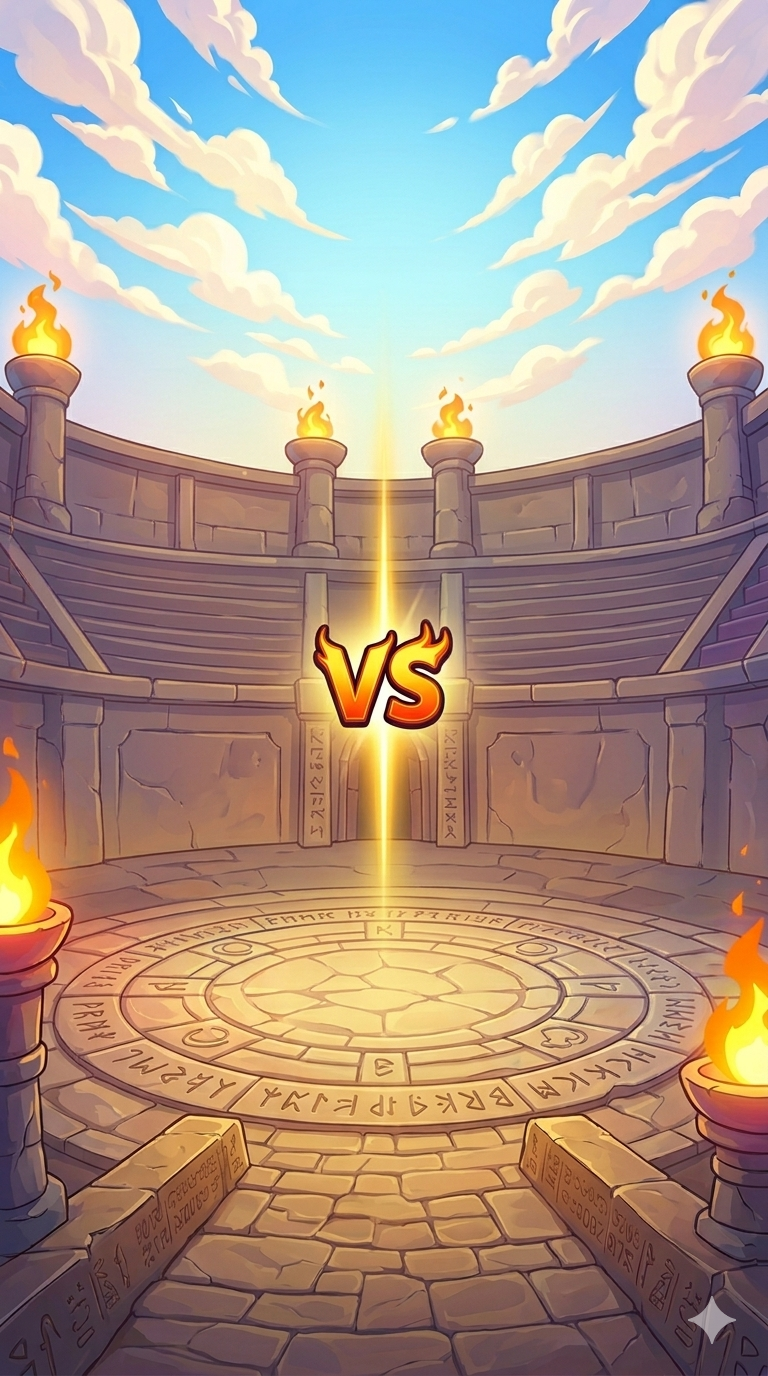
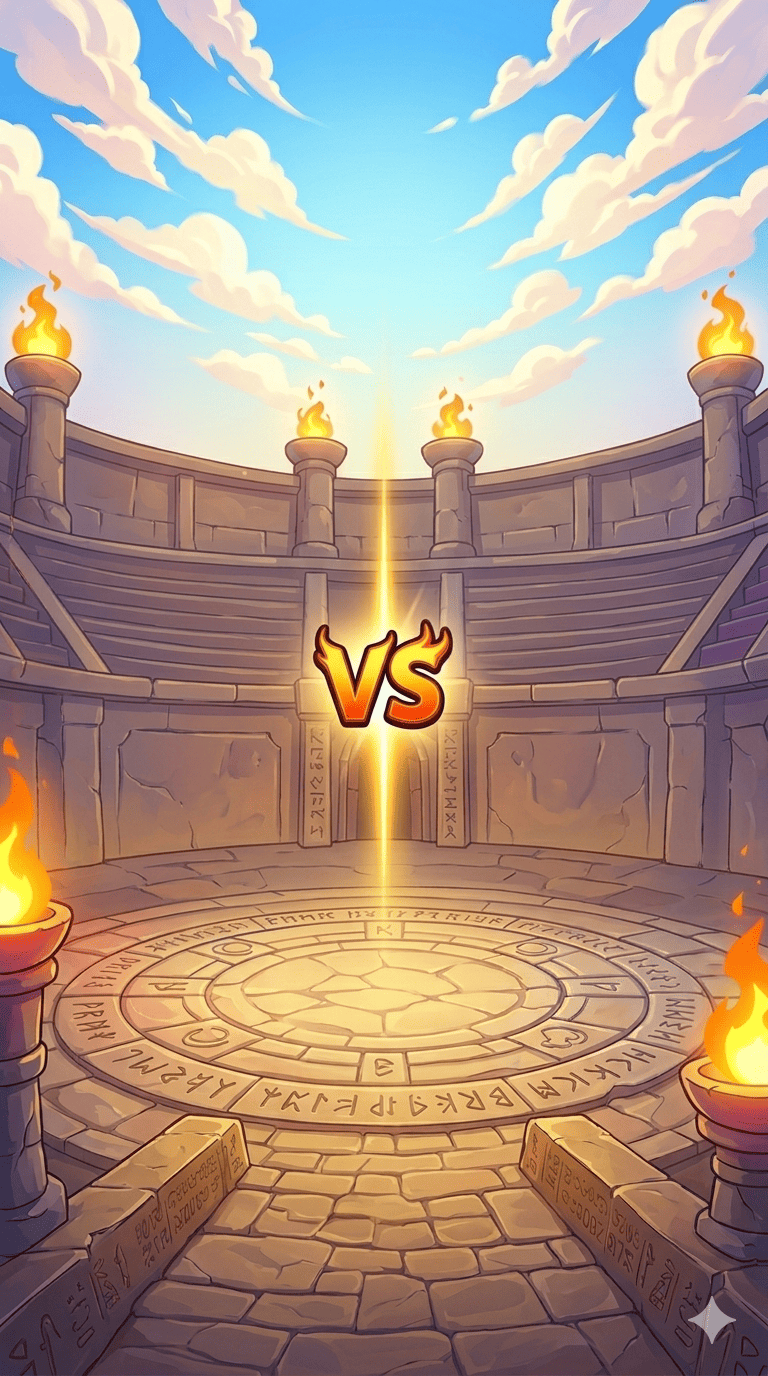
Improve animation and fast interacionts

diff --git a/lib/delivery/screens/battle/pre_battle_screens.dart b/lib/delivery/screens/battle/pre_battle_screens.dart
@@ -13,31 +13,38 @@ class PreBattleScreen extends ConsumerWidget {
 
   @override
   Widget build(BuildContext context, WidgetRef ref) {
-    debugPrint('[NAV] PreBattleScreen.build START ${DateTime.now().millisecondsSinceEpoch}');
+    final t0 = DateTime.now().millisecondsSinceEpoch;
+    debugPrint('[FRAME] build start: $t0');
+    WidgetsBinding.instance.addPostFrameCallback((_) {
+      debugPrint('[FRAME] postFrame (layout+paint done): ${DateTime.now().millisecondsSinceEpoch - t0}ms');
+    });
     final playerHero = ref.watch(selectedHeroForBattleProvider);
+    debugPrint('[FRAME] after watch: ${DateTime.now().millisecondsSinceEpoch - t0}ms');
 
     if (playerHero == null) {
       return const Scaffold(body: Center(child: CircularProgressIndicator()));
     }
 
     final botHero = HeroesData.tutorialBotFor(playerHero.faction.name);
+    debugPrint('[FRAME] after botHero: ${DateTime.now().millisecondsSinceEpoch - t0}ms');
     final fColor = factionColor(playerHero.faction);
     final bColor = factionColor(botHero.faction);
 
+    debugPrint('[FRAME] returning widget: ${DateTime.now().millisecondsSinceEpoch - t0}ms');
     return Scaffold(
-      // Quitamos el color de fondo sólido
-      body: Container(
-        // --- CONFIGURACIÓN DEL FONDO ---
-        decoration: const BoxDecoration(
-          image: DecorationImage(
-            image: AssetImage('assets/images/pre_battle_bg.png'),
+      backgroundColor: const Color(0xFF0D0D1A),
+      body: Stack(
+        fit: StackFit.expand,
+        children: [
+          // Imagen de fondo: carga async, no bloquea el primer frame
+          Image.asset(
+            'assets/images/pre_battle_bg.png',
             fit: BoxFit.cover,
+            frameBuilder: (_, child, frame, sync) =>
+                (sync || frame != null) ? child : const SizedBox.shrink(),
           ),
-        ),
-        child: Container(
-          // Añadimos un ligero velo oscuro (opcional) para que los textos blancos resalten más
-          color: Colors.black.withOpacity(0.2),
-          child: SafeArea(
+          ColoredBox(color: Colors.black.withValues(alpha: 0.2)),
+          SafeArea(
             child: Column(
               children: [
                 const SizedBox(height: 40),
@@ -51,9 +58,8 @@ class PreBattleScreen extends ConsumerWidget {
                   'Un rival te espera',
                   style: TextStyle(
                     color: Color(0xFFF0F0F0),
-                    fontSize: 28, // Un poco más grande para que sea épico
+                    fontSize: 28,
                     fontWeight: FontWeight.bold,
-                    shadows: [Shadow(blurRadius: 10, color: Colors.black)], // Sombra para legibilidad
                   ),
                 ),
 
@@ -92,12 +98,7 @@ class PreBattleScreen extends ConsumerWidget {
                               ),
                               child: Column(
                                 children: [
-                                  Text(
-                                    '⚔',
-                                    style: GoogleFonts.notoColorEmoji(
-                                      textStyle: const TextStyle(fontSize: 12),
-                                    ),
-                                  ),
+                                  const Icon(Icons.sports_kabaddi, size: 14, color: Colors.black87),
                                   const Text(
                                     'RIVALIDAD',
                                     style: TextStyle(
@@ -164,11 +165,7 @@ class PreBattleScreen extends ConsumerWidget {
                   ),
                   child: Row(
                     children: [
-                      Text('🃏',
-                        style: GoogleFonts.notoColorEmoji(
-                          textStyle: const TextStyle(fontSize: 20),
-                        ),
-                      ),
+                      const Text('🃏', style: TextStyle(fontSize: 20)),
                       const SizedBox(width: 12),
                       const Expanded(
                         child: Column(
@@ -281,7 +278,7 @@ class PreBattleScreen extends ConsumerWidget {
               ],
             ),
           ),
-        ),
+        ],
       ),
     );
   }
@@ -350,8 +347,12 @@ class _HeroPreviewCard extends StatelessWidget {
             child: SizedBox(
               width: double.infinity,
               height: 100,
-              child: Image.asset(
-                hero.imagePath,
+              child: Image(
+                image: ResizeImage(
+                  AssetImage(hero.imagePath),
+                  width: 300,
+                  height: 200,
+                ),
                 fit: BoxFit.cover,
                 errorBuilder: (_, __, ___) => Container(
                   color: color.withOpacity(0.15),
@@ -383,9 +384,9 @@ class _HeroPreviewCard extends StatelessWidget {
             textAlign: TextAlign.center,
           ),
           const SizedBox(height: 12),
-          _MiniStatBar(label: '❤', value: hero.maxHp, max: 92, color: Colors.red),
+          _MiniStatBar(icon: Icons.favorite, value: hero.maxHp, max: 92, color: Colors.red),
           const SizedBox(height: 4),
-          _MiniStatBar(label: '⚡', value: hero.maxStamina, max: 14, color: Colors.amber),
+          _MiniStatBar(icon: Icons.bolt, value: hero.maxStamina, max: 14, color: Colors.amber),
         ],
       ),
     );
@@ -393,13 +394,13 @@ class _HeroPreviewCard extends StatelessWidget {
 }
 
 class _MiniStatBar extends StatelessWidget {
-  final String label;
+  final IconData icon;
   final int value;
   final int max;
   final Color color;
 
   const _MiniStatBar({
-    required this.label,
+    required this.icon,
     required this.value,
     required this.max,
     required this.color,
@@ -409,12 +410,7 @@ class _MiniStatBar extends StatelessWidget {
   Widget build(BuildContext context) {
     return Row(
       children: [
-        Text(
-          label,
-          style: GoogleFonts.notoColorEmoji(
-            textStyle: const TextStyle(fontSize: 10),
-          ),
-        ),
+        Icon(icon, size: 10, color: color),
         const SizedBox(width: 4),
         Expanded(
           child: ClipRRect(

diff --git a/lib/delivery/screens/heroes/character_select_screen.dart b/lib/delivery/screens/heroes/character_select_screen.dart
@@ -7,7 +7,6 @@ import 'package:go_router/go_router.dart';
 import '../../../domain/entities/hero_entity.dart';
 import '../../../infra/local/heroes_data.dart';
 import '../../state/providers.dart';
-import '../../widgets/tap_scale_button.dart';
 import 'mini_chip.dart';
 
 class CharacterSelectScreen extends ConsumerStatefulWidget {
@@ -36,12 +35,17 @@ class _CharacterSelectScreenState extends ConsumerState<CharacterSelectScreen> {
           context,
         );
       }
-      // Fondo y bot-heroes de pre-battle: listos antes de que el usuario navegue
+      // Fondo y bot-heroes de pre-battle con las mismas dimensiones que usa _HeroPreviewCard
       precacheImage(const AssetImage('assets/images/pre_battle_bg.png'), context);
       for (final hero in _heroes) {
+        // héroe del jugador en pre-battle (misma clave que _HeroPreviewCard usa)
+        precacheImage(
+          ResizeImage(AssetImage(hero.imagePath), width: 300, height: 200),
+          context,
+        );
         final bot = HeroesData.tutorialBotFor(hero.faction.name);
         precacheImage(
-          ResizeImage(AssetImage(bot.imagePath), width: 200, height: 150),
+          ResizeImage(AssetImage(bot.imagePath), width: 300, height: 200),
           context,
         );
       }
@@ -145,25 +149,32 @@ class _CharacterSelectScreenState extends ConsumerState<CharacterSelectScreen> {
             // ── Botón confirmar ──────────────────────────────────────────────
             Padding(
               padding: const EdgeInsets.symmetric(horizontal: 32),
-              child: TapScaleButton(
-                color: color,
-                onPressed: () => _onConfirm(hero),
-                child: Row(
-                  mainAxisAlignment: MainAxisAlignment.center,
-                  children: [
-                    Text(
-                      'Elegir ${hero.name}',
-                      style: const TextStyle(
-                        fontSize: 16,
-                        fontWeight: FontWeight.bold,
-                        letterSpacing: 0.5,
-                        color: Colors.white,
+              child: GestureDetector(
+                onTap: () => _onConfirm(hero),
+                child: Container(
+                  width: double.infinity,
+                  height: 56,
+                  decoration: BoxDecoration(
+                    color: color,
+                    borderRadius: BorderRadius.circular(16),
+                  ),
+                  child: Row(
+                    mainAxisAlignment: MainAxisAlignment.center,
+                    children: [
+                      Text(
+                        'Elegir ${hero.name}',
+                        style: const TextStyle(
+                          fontSize: 16,
+                          fontWeight: FontWeight.bold,
+                          letterSpacing: 0.5,
+                          color: Colors.white,
+                        ),
                       ),
-                    ),
-                    const SizedBox(width: 8),
-                    const Icon(Icons.arrow_forward_rounded,
-                        size: 20, color: Colors.white),
-                  ],
+                      const SizedBox(width: 8),
+                      const Icon(Icons.arrow_forward_rounded,
+                          size: 20, color: Colors.white),
+                    ],
+                  ),
                 ),
               ),
             ),
@@ -340,9 +351,9 @@ class _HeroCard extends StatelessWidget {
                             const SizedBox(height: 4),
                             Row(
                               children: [
-                                MiniChip(icon: '❤', value: '${hero.maxHp}'),
+                                Flexible(child: MiniChip(icon: '❤', value: '${hero.maxHp}')),
                                 const SizedBox(width: 4),
-                                MiniChip(icon: '⚡', value: '${hero.maxStamina}'),
+                                Flexible(child: MiniChip(icon: '⚡', value: '${hero.maxStamina}')),
                               ],
                             ),
                           ],

diff --git a/lib/delivery/router/app_router.dart b/lib/delivery/router/app_router.dart
@@ -77,18 +77,8 @@ final appRouterProvider = Provider<GoRouter>((ref) {
 CustomTransitionPage<T> _fadeSlidePage<T>(Widget child) =>
     CustomTransitionPage<T>(
       child: child,
-      transitionDuration: const Duration(milliseconds: 200),
-      reverseTransitionDuration: const Duration(milliseconds: 160),
-      transitionsBuilder: (context, animation, secondaryAnimation, child) {
-        return SlideTransition(
-          position: Tween<Offset>(
-            begin: const Offset(1.0, 0),
-            end: Offset.zero,
-          ).animate(CurvedAnimation(
-            parent: animation,
-            curve: Curves.easeOut,
-          )),
-          child: child,
-        );
-      },
+      transitionDuration: Duration.zero,
+      reverseTransitionDuration: Duration.zero,
+      transitionsBuilder: (context, animation, secondaryAnimation, child) =>
+          child,
     );
